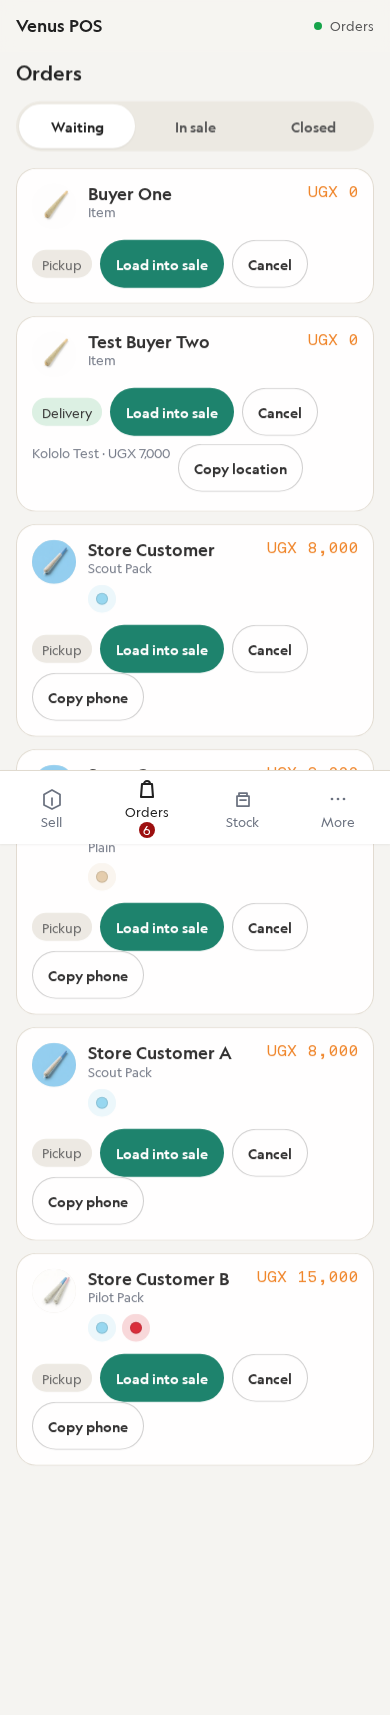
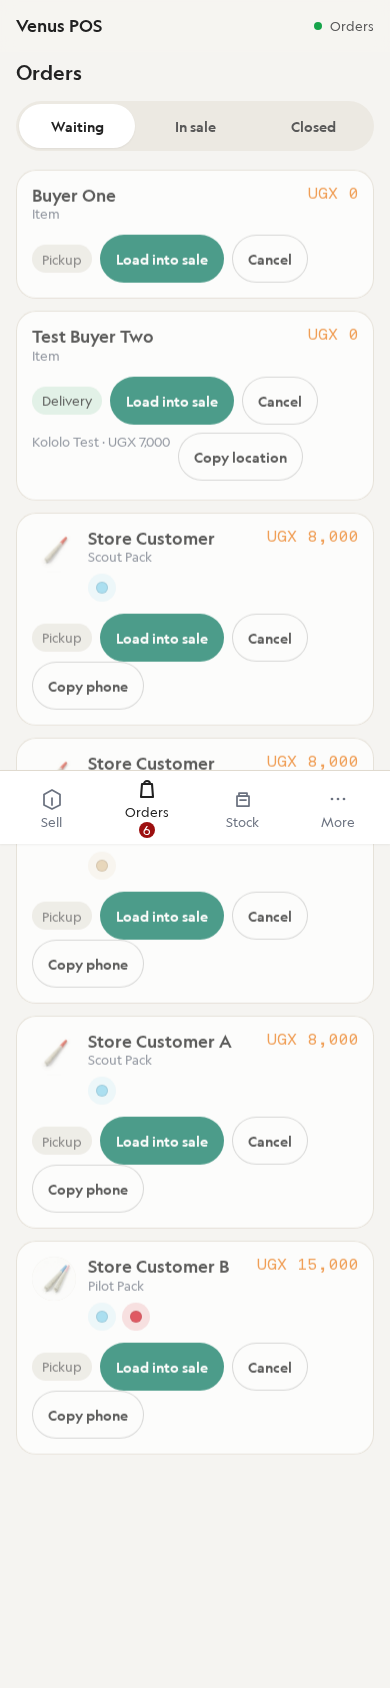
wip: use the storefront catalog product photos
Sell tiles and order thumbs now use the files named in shop-venus.com's product catalog under assets/images. Cookie Quartet and wholesale have no shop photo, so they are left blank.

diff --git a/src/domain/product-art.ts b/src/domain/product-art.ts
@@ -1,22 +1,54 @@
-/** Storefront product photos from shop-venus.com, kept local so Sell works offline. */
+/**
+ * Product photos from the live Venus storefront catalog.
+ * Source: https://shop-venus.com/js/shared/products-catalog.js
+ * and the collection catalogs (joints-collection-catalog.js,
+ * mens-collection-catalog.js). Every file is a static asset at
+ * https://shop-venus.com/assets/images/ — not Supabase storage.
+ * github.com/ofamba404/venus-store returned 404 from this environment.
+ *
+ * The shop has no Cookie Quartet and no wholesale product, so those ids
+ * have no photo. The Cookies tile uses the Butterscotch Cookie card,
+ * which is the shop's lead cookie. A single-flavour cookie line uses
+ * that flavour's own card when we know it.
+ */
 
 const FILE: Record<string, string> = {
-  scout: 'mint.webp',
-  pilot: 'pilot.webp',
-  commander: 'commander.webp',
-  variety: 'variety.jpg',
+  scout: 'scout-pack.webp',
+  pilot: 'bestsellers-pilot-pack.webp',
+  commander: 'bestsellers-commanders-stash.webp',
+  variety: 'bestsellers-variety-pack.jpg',
   cookie_duet: 'cookie-duet.webp',
   cookie_trio: 'cookie-trio.webp',
-  cookie_quartet: 'cookies.webp',
-  cookie_single: 'cookies.webp',
-  cookie_wholesale: 'cookies.webp',
-  plain_single: 'plain.webp',
+  plain_single: 'bestsellers-plain.webp',
   spliff_single: 'bangis.webp',
+  cookie_single: 'bestsellers-cookie.jpg',
 };
 
-export function productImageSrc(productId: string | null | undefined): string {
-  const file = FILE[String(productId || '')] || 'plain.webp';
+const COOKIE_FLAVOR_FILE: Record<string, string> = {
+  cookie_butterscotch: 'bestsellers-cookie.jpg',
+  cookie: 'bestsellers-cookie.jpg',
+  cookie_mint: 'mint-cookie.webp',
+  cookie_strawberry: 'strawberry-cookie.webp',
+  cookie_chocolate: 'chocolate-cookie.webp',
+};
+
+function assetUrl(file: string): string {
   const base = import.meta.env.BASE_URL || '/';
   const prefix = base.endsWith('/') ? base : `${base}/`;
   return `${prefix}assets/products/${file}`;
+}
+
+export function productImageSrc(
+  productId: string | null | undefined,
+  breakdown?: Record<string, unknown> | null,
+): string {
+  if (productId === 'cookie_single' && breakdown) {
+    const flavours = Object.entries(breakdown)
+      .filter(([, qty]) => Number(qty) > 0)
+      .map(([id]) => id);
+    const only = flavours.length === 1 ? COOKIE_FLAVOR_FILE[flavours[0]!] : '';
+    if (only) return assetUrl(only);
+  }
+  const file = FILE[String(productId || '')];
+  return file ? assetUrl(file) : '';
 }

diff --git a/src/features/sell/SellPage.tsx b/src/features/sell/SellPage.tsx
@@ -809,7 +809,7 @@ export function SellPage() {
               data-testid={`product-${p.id}`}
               onClick={() => openConfig(p)}
             >
-              <img class="v-tile__img" src={productImageSrc(p.id)} alt="" />
+              {productImageSrc(p.id) ? <img class="v-tile__img" src={productImageSrc(p.id)} alt="" /> : null}
               <span class="v-tile__name">{p.name}</span>
               <span class="v-tile__meta">
                 {p.joints} {p.slotNoun || (Number(p.joints) === 1 ? 'joint' : 'joints')}
@@ -829,7 +829,7 @@ export function SellPage() {
               data-testid={`product-${p.id}`}
               onClick={() => openConfig(p)}
             >
-              <img class="v-tile__img" src={productImageSrc(p.id)} alt="" />
+              {productImageSrc(p.id) ? <img class="v-tile__img" src={productImageSrc(p.id)} alt="" /> : null}
               <span class="v-tile__name">{p.name}</span>
               <span class="v-tile__meta">{p.unitLabel || 'per joint'}</span>
               <span class="v-tile__price">{productPriceLabel(p)}</span>
@@ -849,7 +849,7 @@ export function SellPage() {
                   data-testid={`product-${p.id}`}
                   onClick={() => openConfig(p)}
                 >
-                  <img class="v-tile__img" src={productImageSrc(p.id)} alt="" />
+                  {productImageSrc(p.id) ? <img class="v-tile__img" src={productImageSrc(p.id)} alt="" /> : null}
                   <span class="v-tile__name">{p.name}</span>
                   <span class="v-tile__price">{productPriceLabel(p)}</span>
                 </button>

diff --git a/tests/unit/insights-view.test.ts b/tests/unit/insights-view.test.ts
@@ -141,12 +141,13 @@ describe('insight boards', () => {
     );
     expect(loss.profit).toBe(0);
     expect(jointCommission(null, null).commission).toBe(0);
-    expect(productImageSrc('pilot')).toContain('assets/products/pilot.webp');
-    expect(productImageSrc(null)).toContain('plain.webp');
+    expect(productImageSrc('pilot')).toContain('assets/products/bestsellers-pilot-pack.webp');
+    expect(productImageSrc('cookie_quartet')).toBe('');
+    expect(productImageSrc('cookie_single', { cookie_mint: 2 })).toContain('mint-cookie.webp');
     vi.stubEnv('BASE_URL', '/next');
-    expect(productImageSrc('scout')).toContain('/next/assets/products/mint.webp');
+    expect(productImageSrc('scout')).toContain('/next/assets/products/scout-pack.webp');
     vi.stubEnv('BASE_URL', '');
-    expect(productImageSrc('scout')).toContain('/assets/products/mint.webp');
+    expect(productImageSrc('scout')).toContain('/assets/products/scout-pack.webp');
   });
 });
 

diff --git a/src/features/orders/OrdersPage.tsx b/src/features/orders/OrdersPage.tsx
@@ -188,11 +188,15 @@ export function OrdersPage() {
       <div class="v-stagger">
         {list.map((o) => {
           const items = Array.isArray(o.items) ? o.items : [];
-          const first = items[0] as { product_id?: string } | undefined;
+          const first = items[0] as {
+            product_id?: string;
+            breakdown?: Record<string, unknown>;
+          } | undefined;
+          const thumb = first?.product_id ? productImageSrc(first.product_id, first.breakdown) : '';
           return (
           <article key={o.id} class="v-order-card">
             <div class="v-order-card__top">
-              {first?.product_id ? <img class="v-thumb" src={productImageSrc(first.product_id)} alt="" /> : null}
+              {thumb ? <img class="v-thumb" src={thumb} alt="" /> : null}
               <div style={{ flex: 1, minWidth: 0 }}>
                 <div class="v-list-row__title">{orderTitle(o, labels)}</div>
                 <div>

diff --git a/src/features/history/HistoryEditSheet.tsx b/src/features/history/HistoryEditSheet.tsx
@@ -73,7 +73,13 @@ export function HistoryEditSheet({
           const qty = Math.max(1, Math.round(Number(Object.values(item.breakdown || {})[0]) || 1));
           return (
             <div class="v-list-row" key={`${item.product_id}-${index}`}>
-              <img class="v-thumb" src={productImageSrc(String(item.product_id || ''))} alt="" />
+              {productImageSrc(String(item.product_id || ''), item.breakdown as Record<string, unknown>) ? (
+                <img
+                  class="v-thumb"
+                  src={productImageSrc(String(item.product_id || ''), item.breakdown as Record<string, unknown>)}
+                  alt=""
+                />
+              ) : null}
               <div class="v-list-row__main">
                 <div class="v-list-row__title">{item.product_name || 'Item'}</div>
                   <FlavorSwatches

diff --git a/src/features/history/HistoryPage.tsx b/src/features/history/HistoryPage.tsx
@@ -142,8 +142,12 @@ export function HistoryPage() {
                   setVoiding(false);
                 }}
               >
-                {first?.product_id ? (
-                  <img class="v-thumb" src={productImageSrc(String(first.product_id))} alt="" />
+                {first?.product_id && productImageSrc(String(first.product_id), first.breakdown as Record<string, unknown>) ? (
+                  <img
+                    class="v-thumb"
+                    src={productImageSrc(String(first.product_id), first.breakdown as Record<string, unknown>)}
+                    alt=""
+                  />
                 ) : null}
                 <div class="v-list-row__main">
                   <div class="v-list-row__title">
